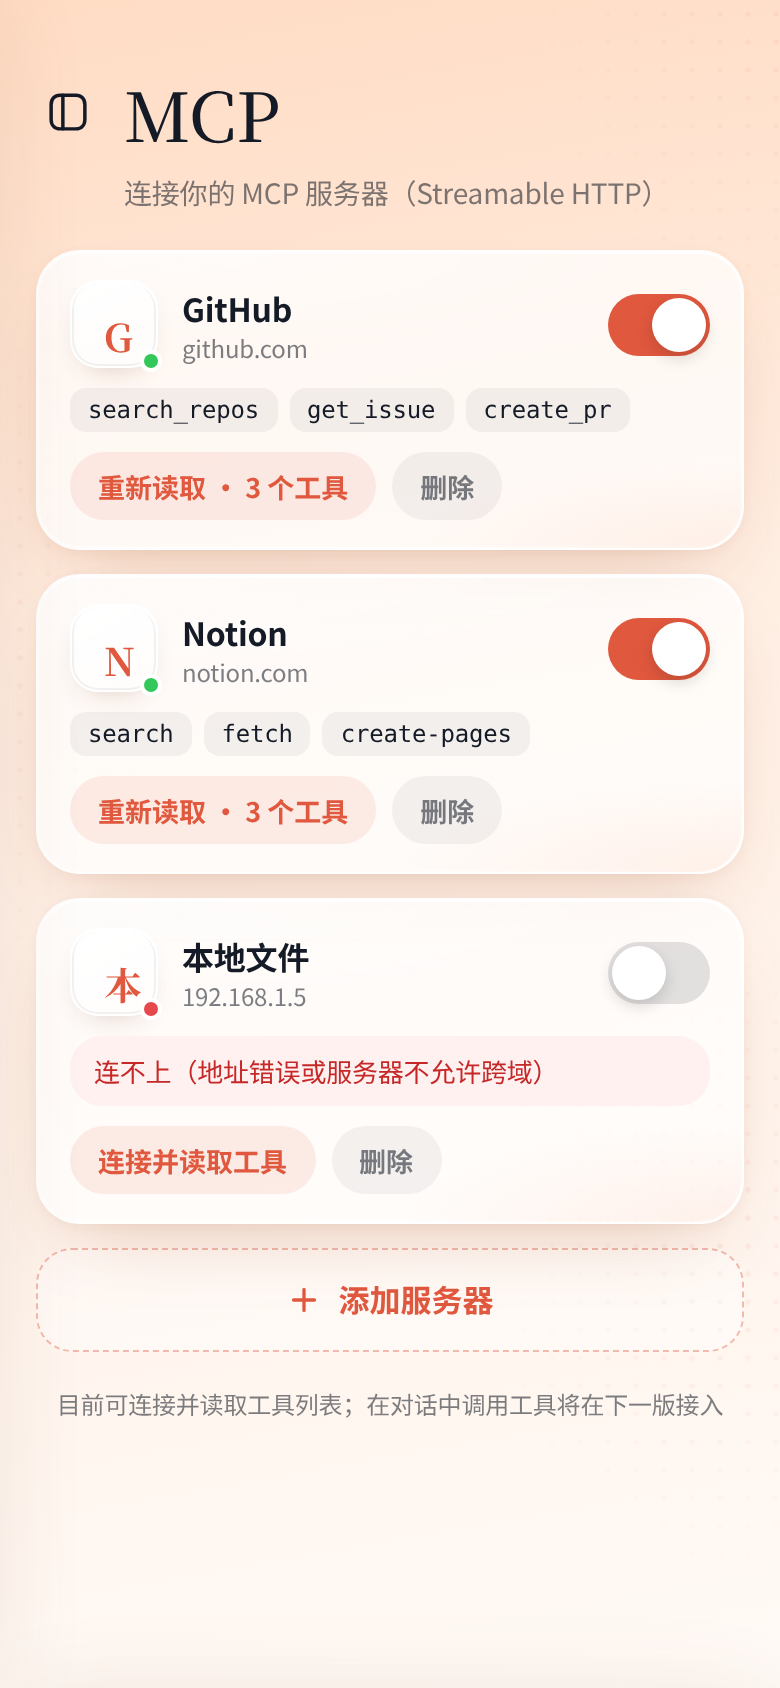
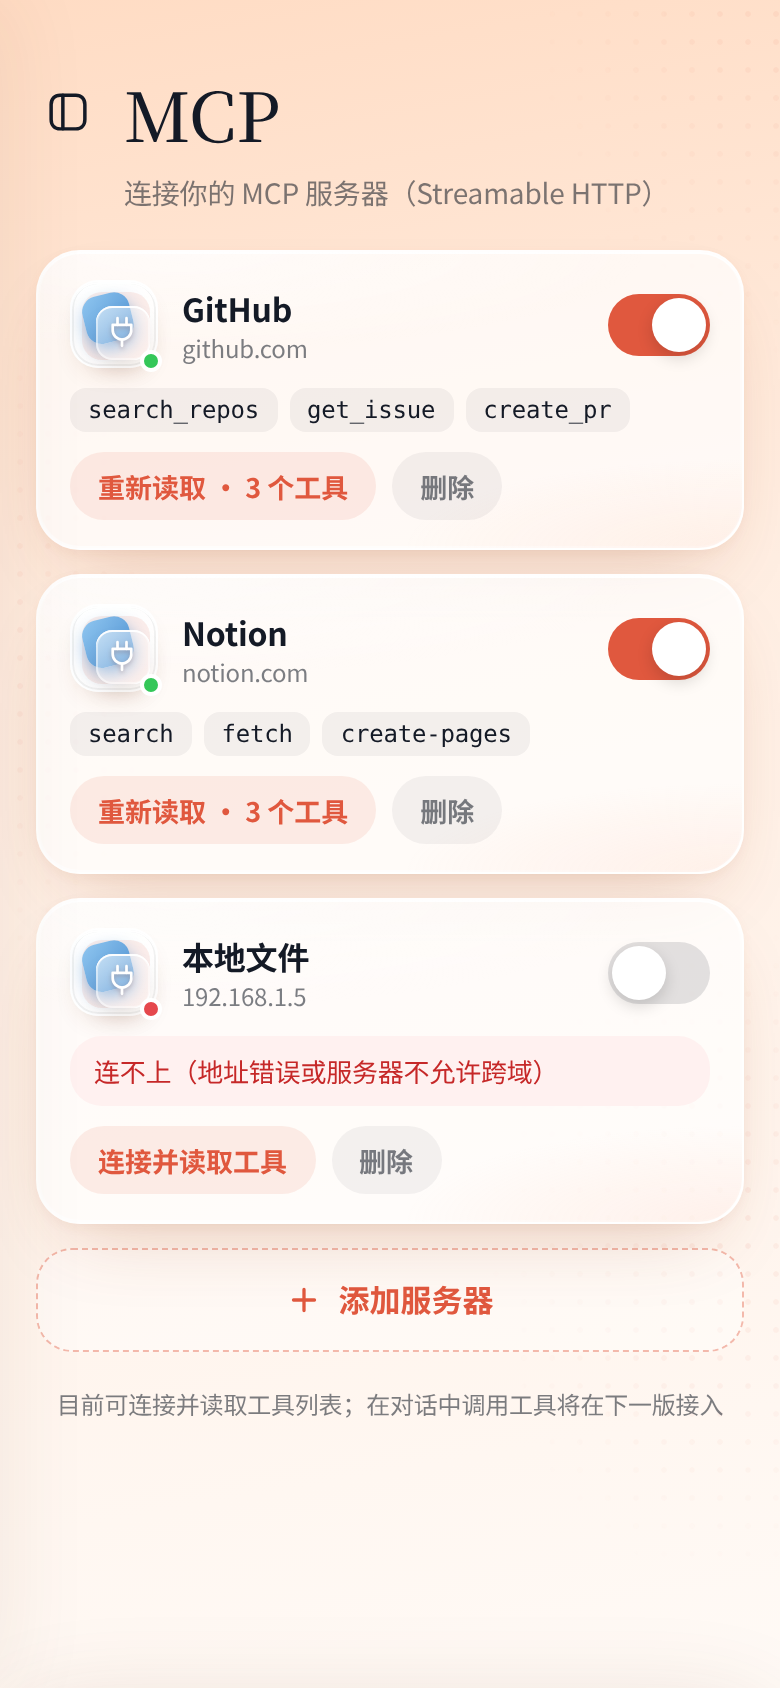
v0.11.1：文件夹磨砂玻璃前盖，默认头像不用首字母

Changed region(s): [[0.0923, 0.5545, 0.1846, 0.6161], [0.0923, 0.154, 0.1846, 0.2156], [0.0923, 0.3389, 0.1846, 0.4005]]

diff --git a/src/App.tsx b/src/App.tsx
@@ -159,7 +159,7 @@ function Sidebar({ view, go, convs, openId, onOpen, onNew, onDelete, plan, onClo
           </div>))}
       </div>
       <button className={`s-me ${view === 'me' || view === 'wallet' || view === 'settings' || view === 'fav' ? 'on' : ''}`} onClick={() => go('me')}>
-        <span className="avatar sm">{USER_NAME[0]}</span>
+        <span className="avatar sm"><Icon n="user" s={20} w={1.8} c="#fff" /></span>
         <div className="grow"><div className="b">{USER_FULL}</div><div className="t12">{plan || 'Free'}</div></div>
         {!plan && <span className="up-tag">升级</span>}
       </button>
@@ -174,7 +174,7 @@ function MePage({ plan, gu, settings, favCount, go }: { plan: string | null; gu:
   return (
     <section className="fade">
       <div className="me-card">
-        <span className="avatar lg">{USER_NAME[0]}</span>
+        <span className="avatar lg"><Icon n="user" s={34} w={1.6} c="#fff" /></span>
         <div className="grow"><div className="me-n serif">{USER_FULL}</div><div className="t13">{ok ? '已连接网关' : '还没连接网关'}</div></div>
       </div>
       <div className="acct big" style={{ marginTop: 14 }}>
@@ -245,13 +245,16 @@ function McpPage({ servers, setServers }: { servers: McpServer[]; setServers: (f
 function siteOf(u: string) {
   try { const h = new URL(u.includes('://') ? u : 'https://' + u).hostname; return /^\d+\.\d+\.\d+\.\d+$|^localhost$/.test(h) ? h : h.replace(/^(mcp|api|server|gateway)\d*\./, '') } catch { return u }
 }
-function Favicon({ site, name, status }: { site: string; name: string; status: McpServer['status'] }) {
+function Favicon({ site, status }: { site: string; name?: string; status: McpServer['status'] }) {
+  return <FaviconImpl site={site} status={status} />
+}
+function FaviconImpl({ site, status }: { site: string; status: McpServer['status'] }) {
   const srcs = [`https://${site}/favicon.ico`, `https://icons.duckduckgo.com/ip3/${site}.ico`, `https://www.google.com/s2/favicons?domain=${site}&sz=128`]
   const [i, setI] = useState(0)
   return (
     <span className="fav">
       {i < srcs.length ? <img src={srcs[i]} alt="" onError={() => setI(i + 1)} onLoad={e => { if ((e.target as HTMLImageElement).naturalWidth < 2) setI(i + 1) }} />
-        : <b>{(name || site)[0]?.toUpperCase()}</b>}
+        : <GlassIcon n="plug" tone="sky" s={34} />}
       <span className={`st-dot ${status}`} />
     </span>
   )
@@ -459,6 +462,11 @@ function Folder({ tone, title, meta, time, sheets, onClick, onLong }: {
         <div className="f-sheet s3">{sheets[2]}</div>
       </div>
       <div className="f-front">
+        <div className="f-ghost" aria-hidden><div className="f-sheets">
+          <div className="f-sheet s1">{sheets[0]}</div>
+          <div className="f-sheet s2 mono">{sheets[1]}</div>
+          <div className="f-sheet s3">{sheets[2]}</div>
+        </div></div>
         <div className="f-title serif ell">{title}</div>
         <div className="f-meta"><span>{meta}</span><span>{time}</span></div>
       </div>

diff --git a/src/index.css b/src/index.css
@@ -492,3 +492,23 @@ button.row{width:100%;text-align:left}
 .fav .st-dot{position:absolute;right:-3px;bottom:-3px;width:11px;height:11px;border:2px solid #fff;box-shadow:none}
 .site-link{display:block;color:var(--label2);text-decoration:none}
 .site-link:active{color:var(--accent)}
+/* v0.11.1 文件夹前盖：磨砂玻璃，透出后面的纸张 */
+.f-front{background:linear-gradient(170deg,color-mix(in srgb,var(--f1) 45%,rgba(255,255,255,.62)) 0%,color-mix(in srgb,var(--f2) 78%,transparent) 100%);
+  backdrop-filter:blur(26px) saturate(180%);-webkit-backdrop-filter:blur(26px) saturate(180%);
+  box-shadow:inset 0 1.5px 0 rgba(255,255,255,.85),inset 0 0 0 1px rgba(255,255,255,.35),inset 0 -20px 40px -20px color-mix(in srgb,var(--f2) 60%,transparent),0 -6px 18px -8px rgba(60,20,10,.22)}
+.f-front::before{content:"";position:absolute;inset:0;border-radius:inherit;pointer-events:none;background:radial-gradient(90% 70% at 15% 0%,rgba(255,255,255,.45),transparent 60%)}
+.f-front>*{position:relative}
+.f-title,.f-meta{text-shadow:0 1px 3px color-mix(in srgb,var(--f2) 70%,transparent)}
+.f-sheets{height:150px}
+.f-sheet{height:118px}
+.fav .gi{position:absolute;inset:5px}
+.avatar{display:inline-grid;place-items:center}
+/* 磨砂：前盖里放一份模糊的纸张副本，和后面的纸张对齐，不依赖 backdrop-filter */
+.folder{--fh:.62}
+@media (min-width:980px){.folder{--fh:.56}}
+.f-front{overflow:hidden;background:color-mix(in srgb,var(--f2) 55%,#fff 45%);backdrop-filter:none;-webkit-backdrop-filter:none}
+.f-ghost{position:absolute;left:0;right:0;bottom:0;height:calc(100% / var(--fh));filter:blur(9px) saturate(130%);opacity:.95;pointer-events:none;z-index:0}
+.f-front::after{content:"";position:absolute;inset:0;border-radius:inherit;pointer-events:none;z-index:1;
+  background:linear-gradient(175deg,color-mix(in srgb,var(--f1) 42%,rgba(255,255,255,.38)) 0%,color-mix(in srgb,var(--f2) 72%,transparent) 100%)}
+.f-front::before{z-index:2}
+.f-front>.f-title,.f-front>.f-meta{position:relative;z-index:3}

diff --git a/src/icons.tsx b/src/icons.tsx
@@ -1,4 +1,5 @@
 const P: Record<string, string> = {
+  user: '<circle cx="12" cy="7.8" r="4.3"/><path fill-rule="evenodd" d="M4.6 18.6c0-2.6 3.3-3.9 7.4-3.9s7.4 1.3 7.4 3.9-3.3 2.6-7.4 2.6-7.4 0-7.4-2.6z"/>',
   chat: '<path d="M12 4c4.97 0 9 3.36 9 7.5S16.97 19 12 19c-1.1 0-2.15-.16-3.12-.46L4 20l1.4-3.6C4.5 15.1 3 13.4 3 11.5 3 7.36 7.03 4 12 4z"/>',
   wallet: '<rect x="3" y="6" width="18" height="13" rx="3.5"/><path d="M3 10h18"/><path d="M16 14.5h2"/>',
   gear: '<path fill-rule="evenodd" d="M20.8 7.6l-.6-1.1c-.5-.9-1.7-1.2-2.6-.7l-.3.2c-1.4.8-3.1-.2-3.1-1.8v-.4c0-1-.8-1.9-1.9-1.9h-1.3c-1 0-1.9.9-1.9 1.9v.4c0 1.6-1.7 2.6-3.1 1.8l-.3-.2c-.9-.5-2.1-.2-2.6.7l-.6 1.1c-.5.9-.2 2.1.7 2.6l.3.2c1.4.8 1.4 2.8 0 3.6l-.3.2c-.9.5-1.2 1.7-.7 2.6l.6 1.1c.5.9 1.7 1.2 2.6.7l.3-.2c1.4-.8 3.1.2 3.1 1.8v.4c0 1 .9 1.9 1.9 1.9h1.3c1 0 1.9-.9 1.9-1.9v-.4c0-1.6 1.7-2.6 3.1-1.8l.3.2c.9.5 2.1.2 2.6-.7l.6-1.1c.5-.9.2-2.1-.7-2.6l-.3-.2c-1.4-.8-1.4-2.8 0-3.6l.3-.2c.9-.5 1.2-1.7.7-2.6z"/><circle cx="12" cy="12" r="2.8"/>',

diff --git a/PLAN.md b/PLAN.md
@@ -128,3 +128,4 @@ Sub2API 已原生支持需要的能力（已核对 vendor/sub2api 源码与 docs
 - 界面：Iconly 风格重画主要图标；玻璃图标（彩色底块 + 磨砂玻璃前片）用于侧栏、我的、空状态；侧栏 / 输入卡 / 卡片加液态玻璃高光；文件夹悬停或按住时纸张抽出、前盖前倾。
 - MCP：官网（可填，默认从地址推断，去掉 mcp./api. 前缀）+ 官网 favicon（加载失败回退首字母），状态点放在头像角上。
 - 2026-11-17 自测通过（design/v11/），tag v0.11。
+- v0.11.1：文件夹前盖改成磨砂玻璃（前盖里放模糊的纸张副本，不依赖 backdrop-filter）；默认头像去掉首字母，用户头像换成人形图标，MCP 官网头像加载失败时显示玻璃插头图标。
